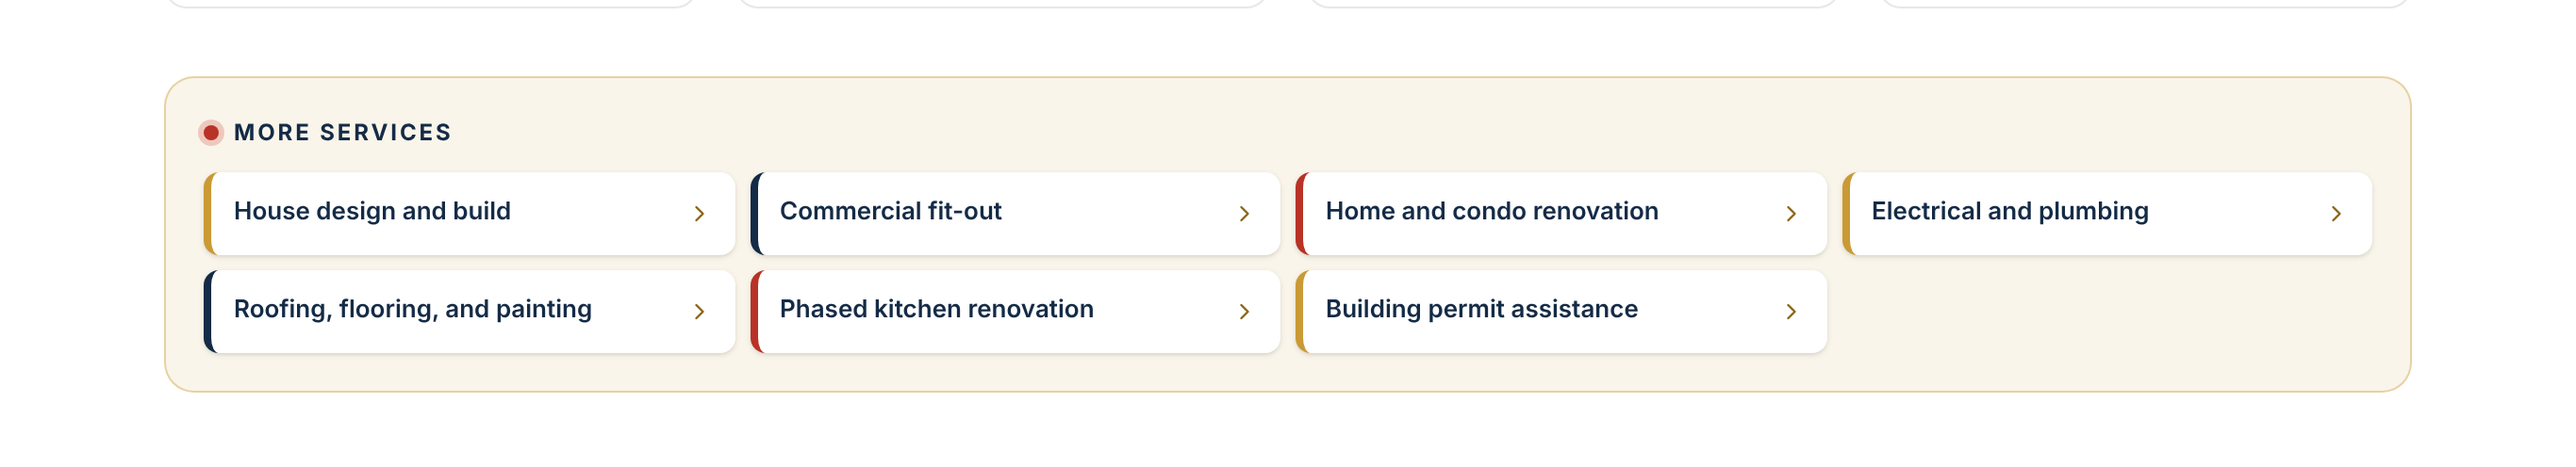
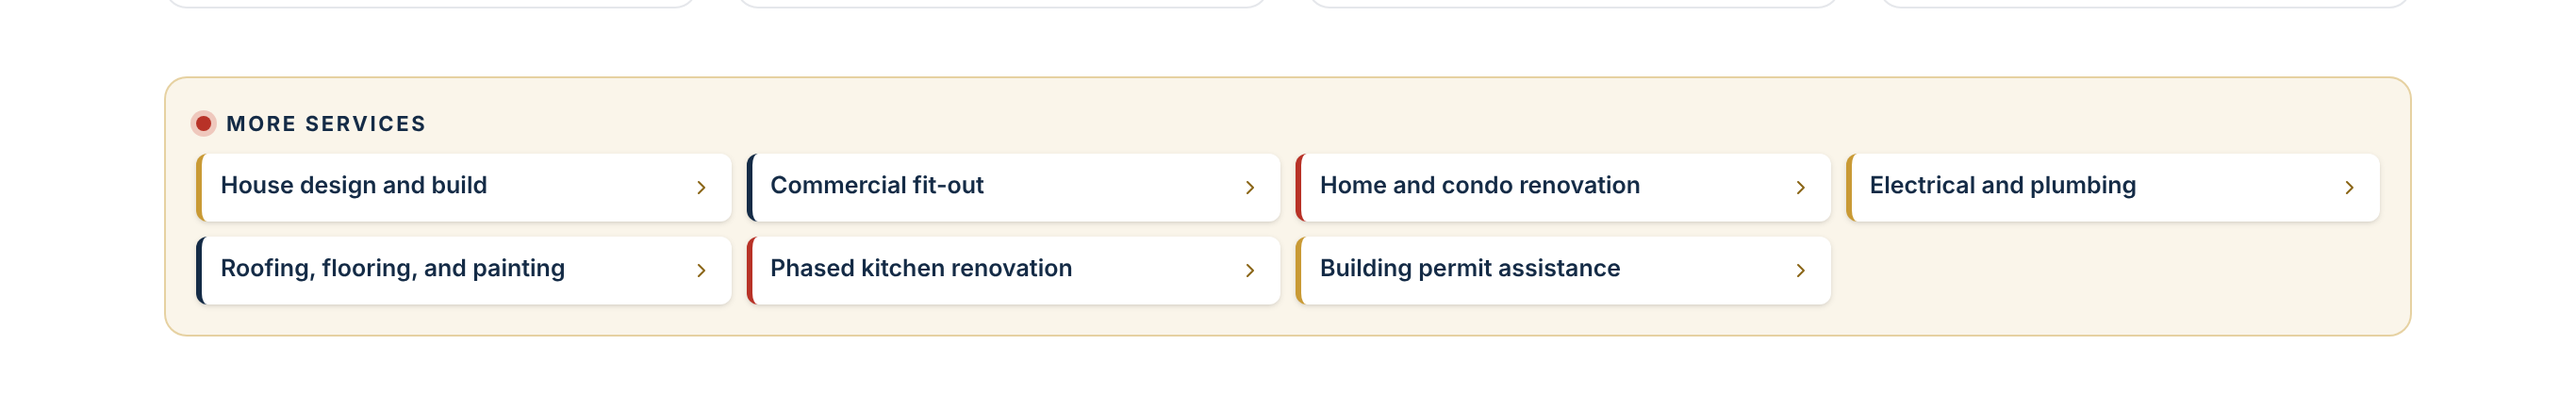
Shrink the service tiles so they take less space on phones
Claude-Session: https://claude.ai/code/session_01QZESgCVuPiRgGJPUHf5uLv

diff --git a/src/app/(site)/page.tsx b/src/app/(site)/page.tsx
@@ -81,23 +81,23 @@ export default async function HomePage() {
           ))}
         </div>
         {otherServices.length > 0 && (
-          <div className="rounded-2xl border border-gold-500/40 bg-gold-100/60 p-4 sm:p-5">
-            <p className="mb-3 flex items-center gap-2 text-[12px] font-bold uppercase tracking-[0.12em] text-navy-800">
+          <div className="rounded-xl border border-gold-500/40 bg-gold-100/60 p-3 sm:p-4">
+            <p className="mb-2 flex items-center gap-2 text-[11px] font-bold uppercase tracking-[0.12em] text-navy-800">
               <span aria-hidden className="size-2 rounded-full bg-brick-600 shadow-[0_0_0_3px_rgba(207,68,54,0.25)]" />
               More services
             </p>
-            <ul className="grid grid-cols-2 gap-2 sm:grid-cols-3 lg:grid-cols-4" aria-label="More services">
+            <ul className="grid grid-cols-2 gap-1.5 sm:grid-cols-3 sm:gap-2 lg:grid-cols-4" aria-label="More services">
               {otherServices.map((s, i) => (
                 <li key={s.id}>
                   <Link
                     href={`/services/${s.slug}`}
                     className={cn(
-                      "group flex h-full min-h-11 items-center justify-between gap-1.5 rounded-lg border-l-4 bg-white px-3 py-2 text-[13px] font-semibold leading-snug text-navy-800 shadow-sm transition-colors hover:bg-navy-800 hover:text-white",
+                      "group flex h-full min-h-9 items-center justify-between gap-1 rounded-md border-l-[3px] bg-white px-2 py-1.5 text-[11.5px] font-semibold leading-tight sm:px-2.5 sm:text-[12.5px] text-navy-800 shadow-sm transition-colors hover:bg-navy-800 hover:text-white",
                       ["border-gold-500", "border-navy-800", "border-brick-600"][i % 3],
                     )}
                   >
                     <span>{s.name}</span>
-                    <ChevronRight className="size-3.5 shrink-0 text-gold-700 group-hover:text-gold-300" aria-hidden />
+                    <ChevronRight className="hidden size-3 shrink-0 text-gold-700 sm:block group-hover:text-gold-300" aria-hidden />
                   </Link>
                 </li>
               ))}
